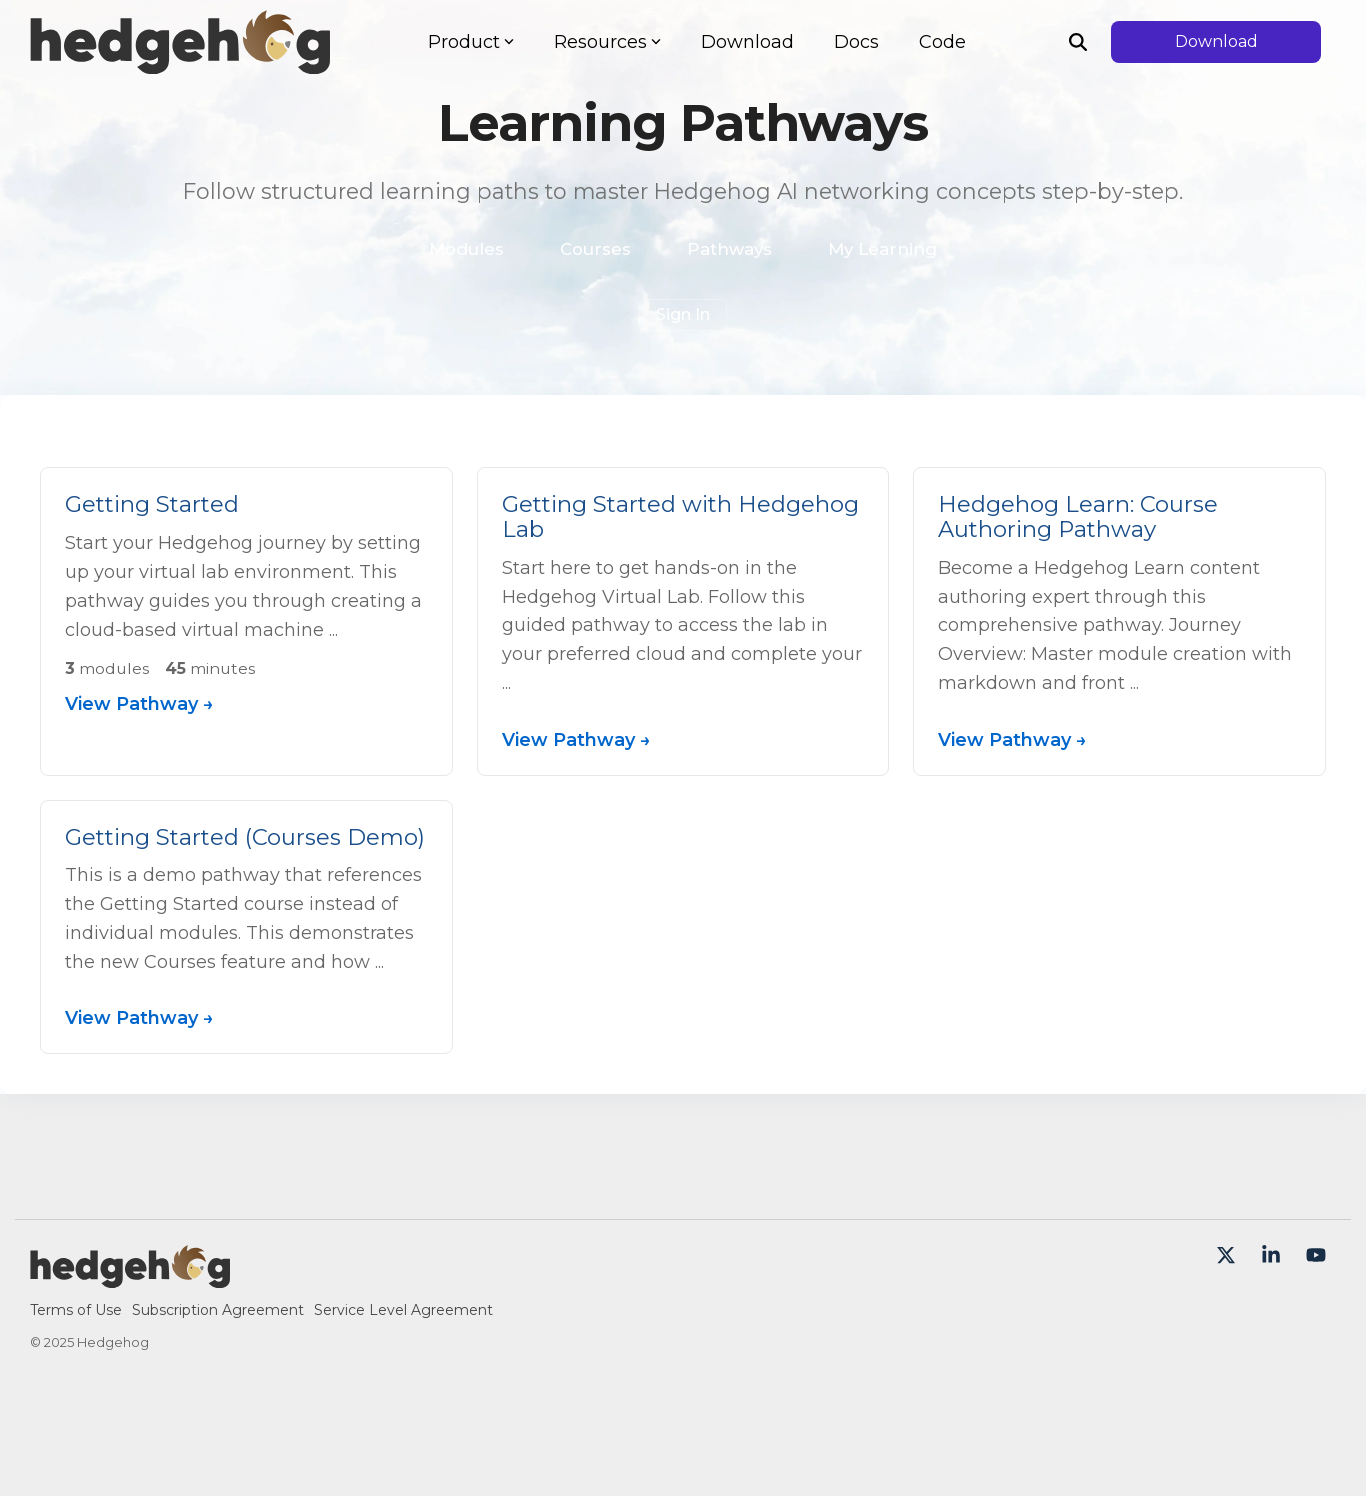
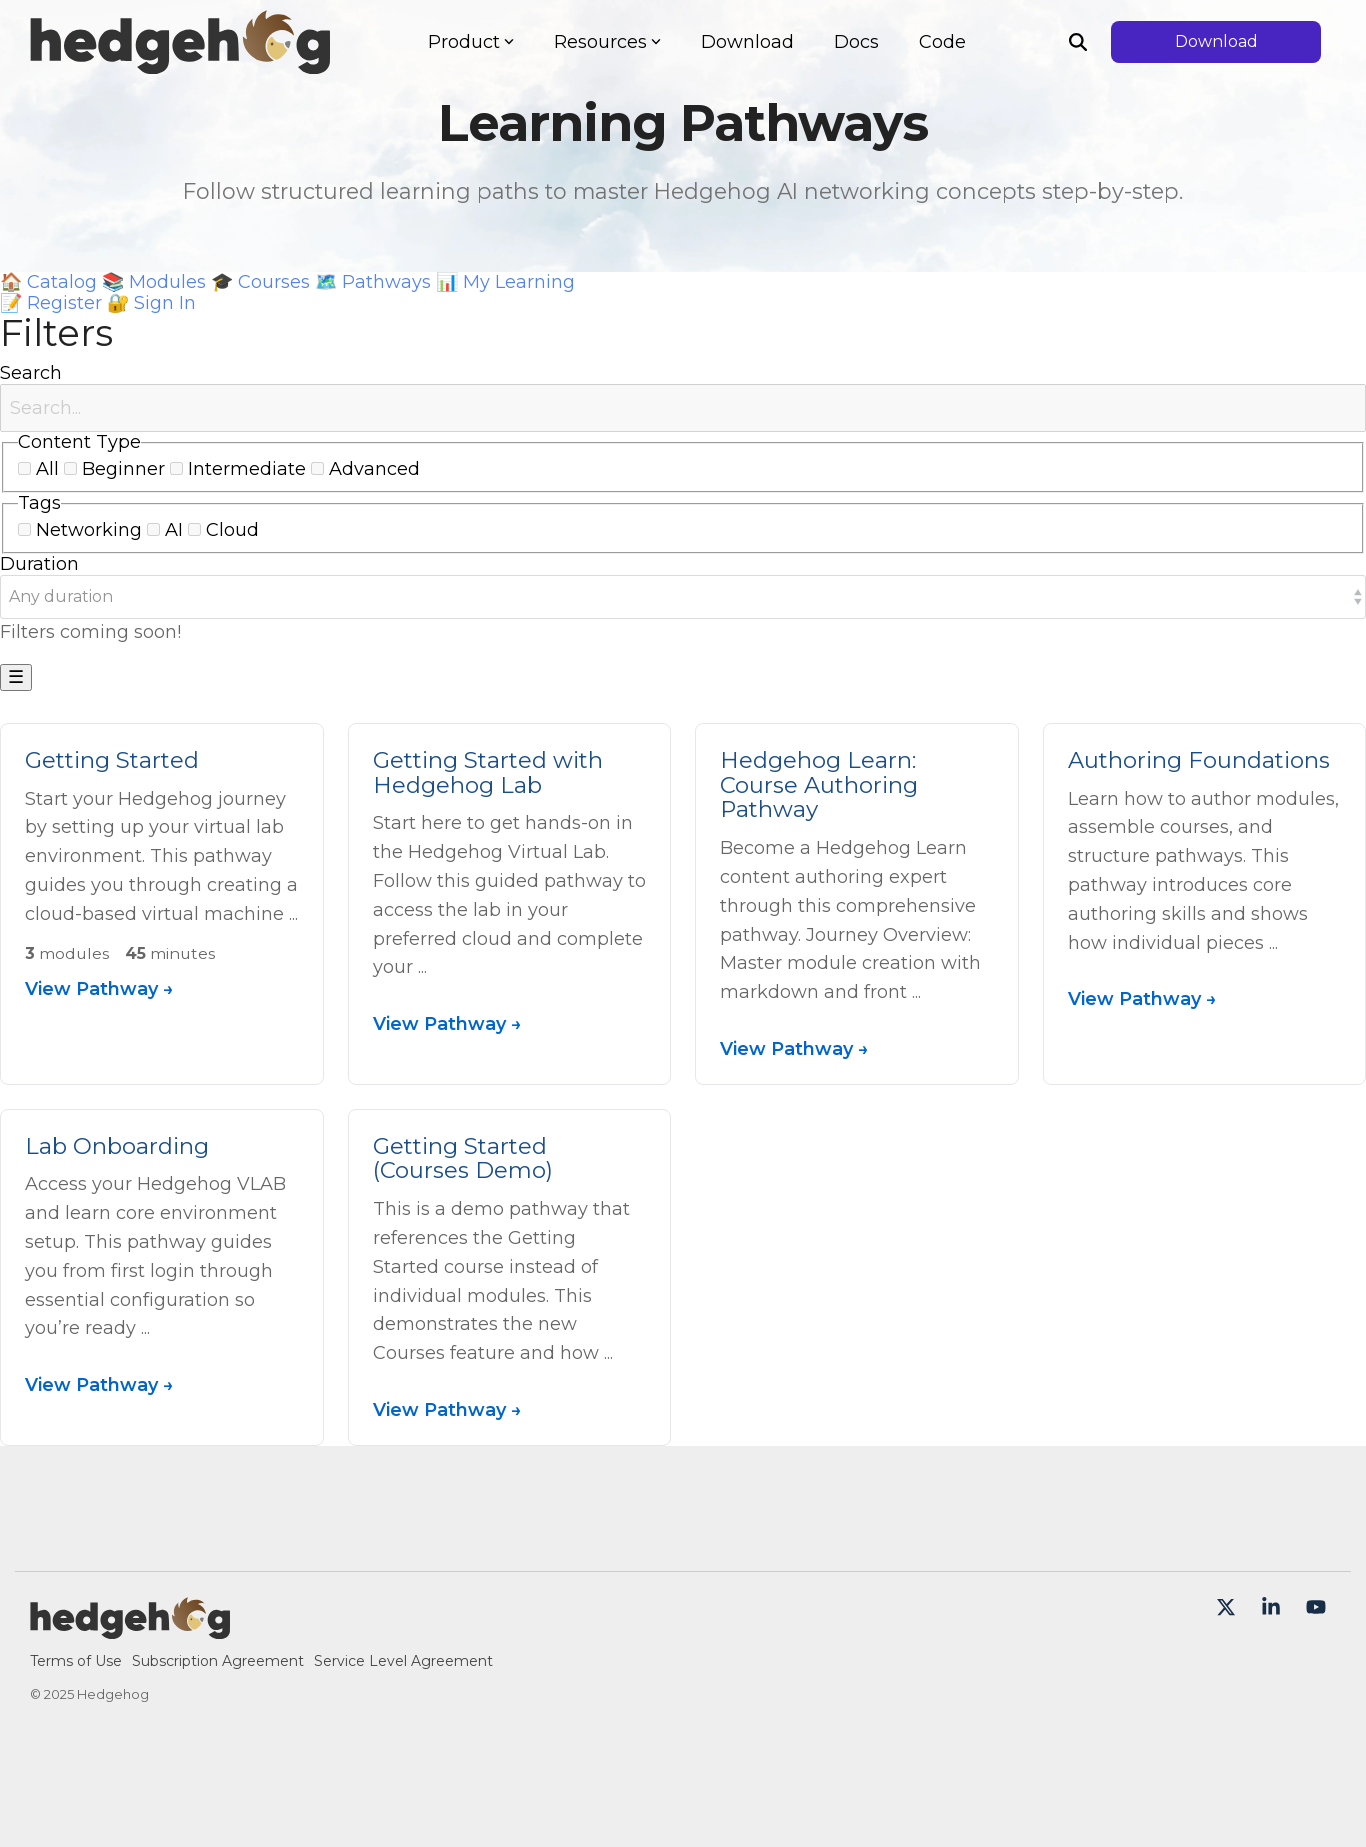
Polish Catalog UI (#173) and fix module detail routing (#175); add screenshots and release notes

diff --git a/clean-x-hedgehog-templates/learn/module-page.html b/clean-x-hedgehog-templates/learn/module-page.html
@@ -119,10 +119,10 @@
 
     {# Add SEO/browser hint rel links #}
     {% if head_prev_module %}
-  <link rel="prev" href="/learn/{{ head_prev_module.hs_path }}">
+  <link rel="prev" href="/learn/modules/{{ head_prev_module.hs_path }}">
     {% endif %}
     {% if head_next_module %}
-  <link rel="next" href="/learn/{{ head_next_module.hs_path }}">
+  <link rel="next" href="/learn/modules/{{ head_next_module.hs_path }}">
     {% endif %}
 
     {# JSON-LD structured data for detail pages #}
@@ -822,7 +822,7 @@
           <nav class="module-nav" role="navigation" aria-label="Module navigation">
             <div class="module-nav-container">
               {% if prev_module %}
-              <a href="/learn/{{ prev_module.hs_path }}" class="module-nav-link module-nav-prev">
+              <a href="/learn/modules/{{ prev_module.hs_path }}" class="module-nav-link module-nav-prev">
                 <span class="module-nav-arrow" aria-hidden="true">←</span>
                 <div class="module-nav-content">
                   <span class="module-nav-label">Previous</span>
@@ -834,7 +834,7 @@
               {% endif %}
 
               {% if next_module %}
-              <a href="/learn/{{ next_module.hs_path }}" class="module-nav-link module-nav-next">
+              <a href="/learn/modules/{{ next_module.hs_path }}" class="module-nav-link module-nav-next">
                 <div class="module-nav-content">
                   <span class="module-nav-label">Next</span>
                   <span class="module-nav-title">{{ next_module.hs_name }}</span>
@@ -900,7 +900,7 @@
                   {% endfor %}
                 {% endif %}
                 {% if not is_archived %}
-                <a href="/learn/{{ module.hs_path }}" class="module-card">
+                <a href="/learn/modules/{{ module.hs_path }}" class="module-card">
                   <div class="module-card-header">
                     <span class="difficulty-badge">
                       {{ module.difficulty.label }}

diff --git a/clean-x-hedgehog-templates/assets/css/catalog.css b/clean-x-hedgehog-templates/assets/css/catalog.css
@@ -21,14 +21,14 @@
 }
 
 .learn-page-title {
-  font-size: 2.8rem;
+  font-size: 2.25rem;
   font-weight: 700;
   margin: 0;
-  letter-spacing: -1px;
+  letter-spacing: -0.5px;
 }
 
 .learn-page-subtitle {
-  font-size: 1.2rem;
+  font-size: 1.125rem;
   font-weight: 400;
   margin: 0;
   opacity: 0.9;
@@ -38,7 +38,7 @@
 .catalog-grid {
   display: grid;
   grid-template-columns: repeat(auto-fill, minmax(340px, 1fr));
-  gap: 24px;
+  gap: 20px;
   margin-top: 32px;
 }
 
@@ -46,12 +46,12 @@
 .catalog-card {
   border: 1px solid #E5E7EB;
   border-radius: 8px;
-  padding: 24px;
+  padding: 20px;
   background: #fff;
   transition: box-shadow 0.2s, transform 0.2s;
   display: flex;
   flex-direction: column;
-  gap: 16px;
+  gap: 12px;
 }
 
 .catalog-card:hover {
@@ -79,7 +79,7 @@
   font-size: 0.75rem;
   font-weight: 600;
   text-transform: uppercase;
-  letter-spacing: 0.5px;
+  letter-spacing: 0.05em;
 }
 
 .catalog-type-module {
@@ -110,8 +110,9 @@
 
 .catalog-card-title {
   margin: 0;
-  font-size: 1.25rem;
+  font-size: 1.125rem;
   line-height: 1.4;
+  font-weight: 600;
 }
 
 .catalog-card-title a {
@@ -126,19 +127,19 @@
 
 .catalog-card-summary {
   color: #666;
-  line-height: 1.6;
-  font-size: 0.9375rem;
+  line-height: 1.65;
+  font-size: 0.95rem;
   flex-grow: 1;
 }
 
 .catalog-card-meta {
   display: flex;
   flex-wrap: wrap;
-  gap: 16px;
-  color: #666;
+  gap: 12px;
+  color: #4B5563;
   font-size: 0.875rem;
-  padding-top: 8px;
-  border-top: 1px solid #F3F4F6;
+  padding-top: 6px;
+  border-top: 1px solid #E5E7EB;
 }
 
 .catalog-meta-item {
@@ -148,17 +149,18 @@
 }
 
 .catalog-card-cta {
-  color: #0066CC;
+  color: #1a4e8a;
   text-decoration: none;
   font-weight: 600;
   display: inline-flex;
   align-items: center;
   margin-top: 8px;
-  transition: color 0.2s;
+  transition: color 0.2s, text-decoration-color 0.2s;
 }
 
 .catalog-card-cta:hover {
-  color: #004C99;
+  color: #1a4e8a;
+  text-decoration: underline;
 }
 
 /* Filter controls */

diff --git a/clean-x-hedgehog-templates/assets/css/left-nav.css b/clean-x-hedgehog-templates/assets/css/left-nav.css
@@ -12,7 +12,7 @@
 
 /* Left navigation sidebar */
 .learn-left-nav {
-  width: 280px;
+  width: 260px;
   flex-shrink: 0;
   background: #ffffff;
   border: 1px solid #E5E7EB;

diff --git a/docs/project-management.md b/docs/project-management.md
@@ -133,6 +133,18 @@ CI gates:
   - Bug: Course detail page missing modules list (#176)
   - Bug: Pathway detail page missing associated course cards (#177)
 - Implemented a direct fix for module link routes and published templates.
+
+Completed
+- UI: Polish Catalog page layout/typography (#173)
+  - Typography: title 2.25rem/700; subtitle 1.125rem/400; card title 1.125rem/600; summary 0.95rem with 1.65 line-height.
+  - Layout: grid gap 20px; card padding 20px; left nav width 260px for a wider content column.
+  - Meta: toned down meta color and divider (#E5E7EB), improved CTA hover state.
+- Bug: Module detail page dynamic content and routing (#175)
+  - Ensured prev/next links, list cards, and head rel links route to `/learn/modules/<slug>`.
+  - Verified dynamic content renders from `dynamic_page_hubdb_row.full_content`.
+- Live verification
+  - /learn/modules bound to HubDB Modules table `135621904` (via provision:pages dry-run output).
+  - Pages published: learn, modules, courses, pathways, my-learning, register.
 - All PRs will auto-trigger independent code review; use `@codex review` for subsequent passes.
 
 ### 2025-10-13: CRM Persistence Enabled
